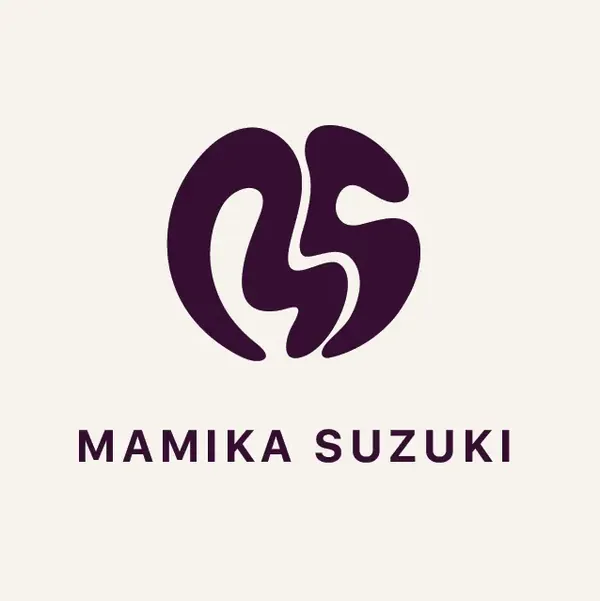
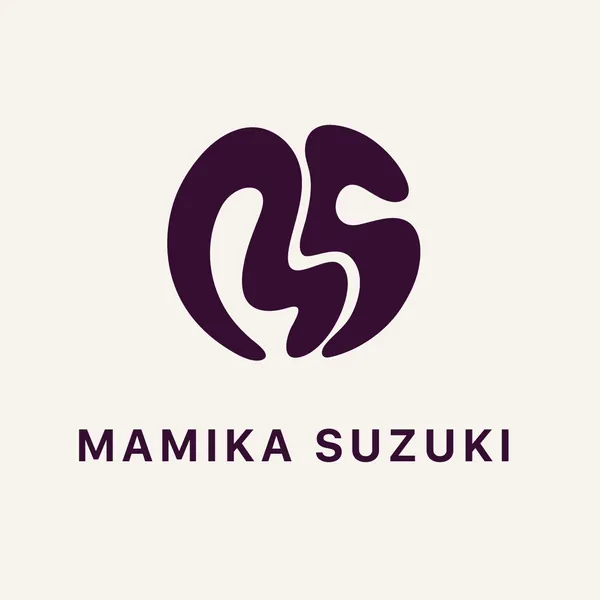
Swap Mamika Suzuki first image

diff --git a/index.html b/index.html
@@ -24,7 +24,7 @@
   <meta name="twitter:image" content="https://buttercup-pixel.github.io/Web-Portfolio-2026/assets/share.jpg">
   <script type="application/ld+json">{"@context":"https://schema.org","@type":"Person","name":"Johanna Nordlander","jobTitle":"Makeup artist and art director","email":"mailto:johannanordlandermua@gmail.com","address":{"@type":"PostalAddress","addressLocality":"Stockholm","addressCountry":"SE"},"url":"https://buttercup-pixel.github.io/Web-Portfolio-2026/","sameAs":["https://www.instagram.com/johanna_nordlander/","https://www.linkedin.com/in/johanna-nordlander-70b20875/"]}</script>
   <link rel="preload" href="assets/fonts/Typewriter_Condensed.woff2" as="font" type="font/woff2" crossorigin>
-  <link rel="stylesheet" href="styles.css?v=20261014-61">
+  <link rel="stylesheet" href="styles.css?v=20261015-1">
 </head>
 <body>
 
@@ -108,7 +108,7 @@
           <div class="item__dim" aria-hidden="true"></div><div class="item__title" aria-hidden="true">Haglöfs, AI exploration</div>
         </div>
         <div class="item item--logo" id="digital-4" tabindex="0" data-category="digital" data-title="Mamika Suzuki" data-gallery="mamika">
-          <img src="assets/images/mamika/tile.webp?v=bafa8d0e" alt="Mamika Suzuki" style="object-position:50% 35%" width="600" height="601" loading="lazy" decoding="async" onerror="this.onerror=null;this.src='assets/images/mamika/fb/01.jpg?v=4f0ad89c'">
+          <img src="assets/images/mamika/tile.webp?v=83ec4e05" alt="Mamika Suzuki" style="object-position:50% 35%" width="600" height="600" loading="lazy" decoding="async" onerror="this.onerror=null;this.src='assets/images/mamika/fb/01.jpg?v=4f0ad89c'">
           <div class="item__dim" aria-hidden="true"></div><div class="item__title" aria-hidden="true">Mamika Suzuki</div>
         </div>
         <div class="item" id="digital-5" tabindex="0" data-category="digital" data-title="Mamika Suzuki Photography" data-gallery="mamikashoot">
@@ -255,7 +255,7 @@
     </section>
   </div>
 
-  <script src="gallery-data.js?v=20261014-61"></script>
-  <script src="script.js?v=20261014-61"></script>
+  <script src="gallery-data.js?v=20261015-1"></script>
+  <script src="script.js?v=20261015-1"></script>
 </body>
 </html>

diff --git a/gallery-data.js b/gallery-data.js
@@ -988,20 +988,20 @@ window.GALLERIES = {
   "hover": "Mamika Suzuki",
   "title": "Mamika Suzuki",
   "thumb": {
-   "src": "assets/images/mamika/01.webp?v=b83f2e04",
-   "w": 638,
-   "h": 639,
+   "src": "assets/images/mamika/01.webp?v=b65e6a55",
+   "w": 1276,
+   "h": 1276,
    "fb": "assets/images/mamika/fb/01.jpg?v=4f0ad89c"
   },
   "tile": {
-   "src": "assets/images/mamika/tile.webp?v=bafa8d0e",
+   "src": "assets/images/mamika/tile.webp?v=83ec4e05",
    "w": 600,
-   "h": 601
+   "h": 600
   },
   "main": {
-   "src": "assets/images/mamika/01.webp?v=b83f2e04",
-   "w": 638,
-   "h": 639,
+   "src": "assets/images/mamika/01.webp?v=b65e6a55",
+   "w": 1276,
+   "h": 1276,
    "fb": "assets/images/mamika/fb/01.jpg?v=4f0ad89c"
   },
   "items": [
